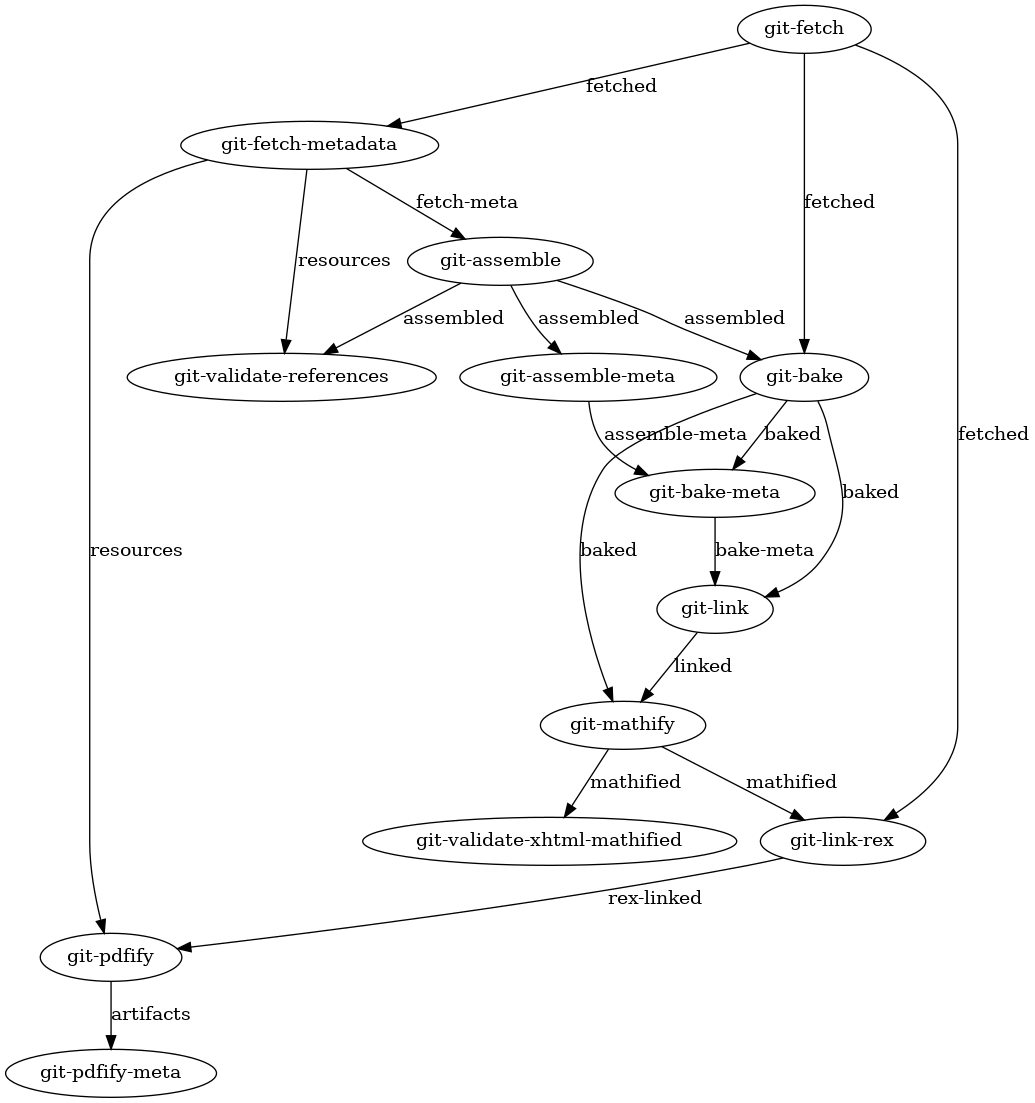
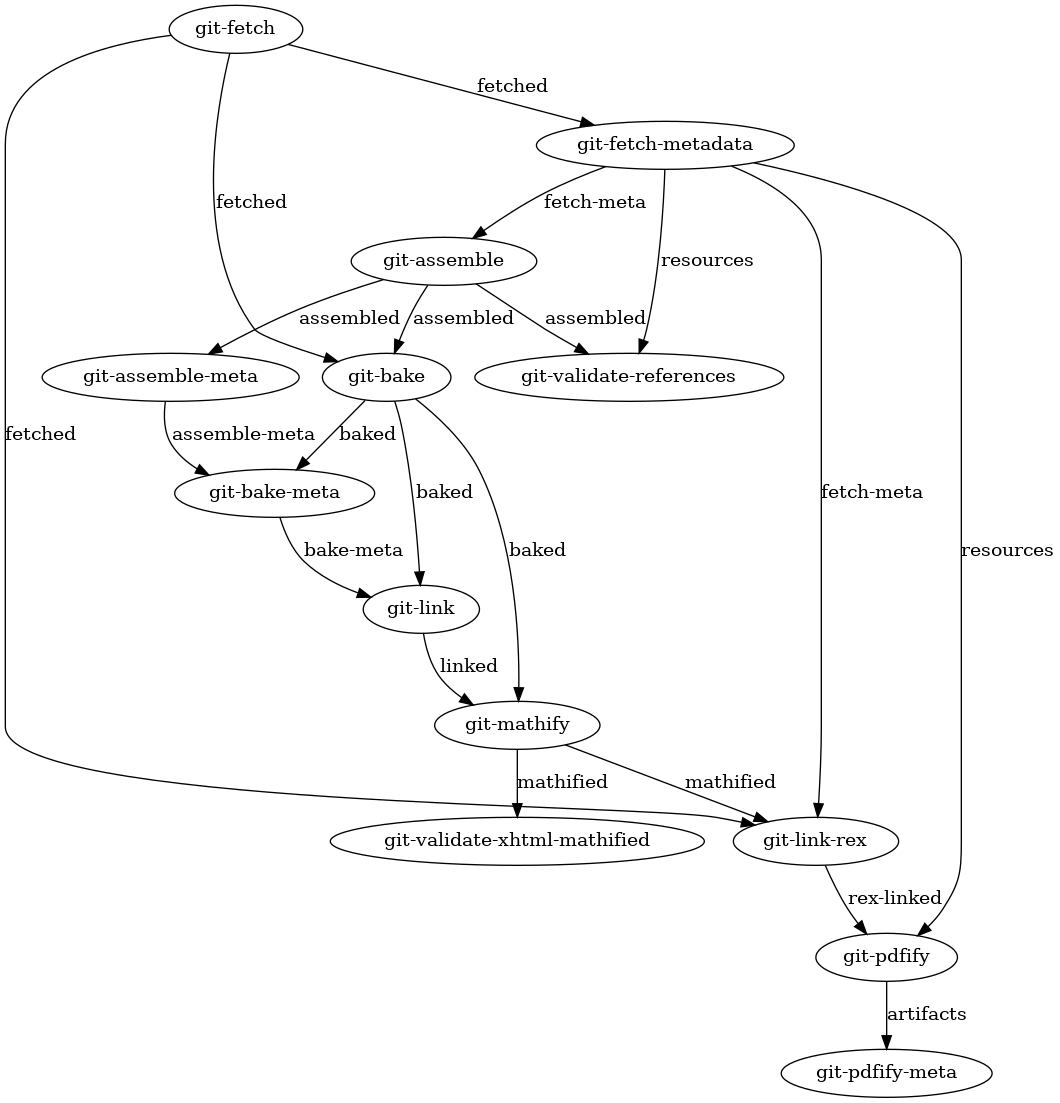
:bug: forgot to add input dir to step

diff --git a/build-concourse/step-definitions.ts b/build-concourse/step-definitions.ts
@@ -59,7 +59,7 @@ set({name: 'git-bake-meta', inputs: [IO.BOOK, IO.ASSEMBLE_META, IO.BAKED], outpu
 set({name: 'git-validate-xhtml-mathified', inputs: [IO.BOOK, IO.MATHIFIED], outputs: [], env: {}})
 set({name: 'git-link', inputs: [IO.BOOK, IO.BAKED, IO.BAKE_META], outputs: [IO.LINKED], env: {}})
 set({name: 'git-mathify', inputs: [IO.BOOK, IO.LINKED, IO.BAKED], outputs: [IO.MATHIFIED], env: {}})
-set({name: 'git-link-rex', inputs: [IO.BOOK, IO.MATHIFIED, IO.FETCHED], outputs: [IO.REX_LINKED], env: {}})
+set({name: 'git-link-rex', inputs: [IO.BOOK, IO.MATHIFIED, IO.FETCHED, IO.FETCH_META], outputs: [IO.REX_LINKED], env: {}})
 set({name: 'git-pdfify', inputs: [IO.BOOK, IO.REX_LINKED, IO.RESOURCES], outputs: [IO.ARTIFACTS], env: {}})
 set({name: 'git-pdfify-meta', inputs: [IO.BOOK, IO.ARTIFACTS], outputs: [IO.ARTIFACTS], env: {CORGI_ARTIFACTS_S3_BUCKET: true}})
 
